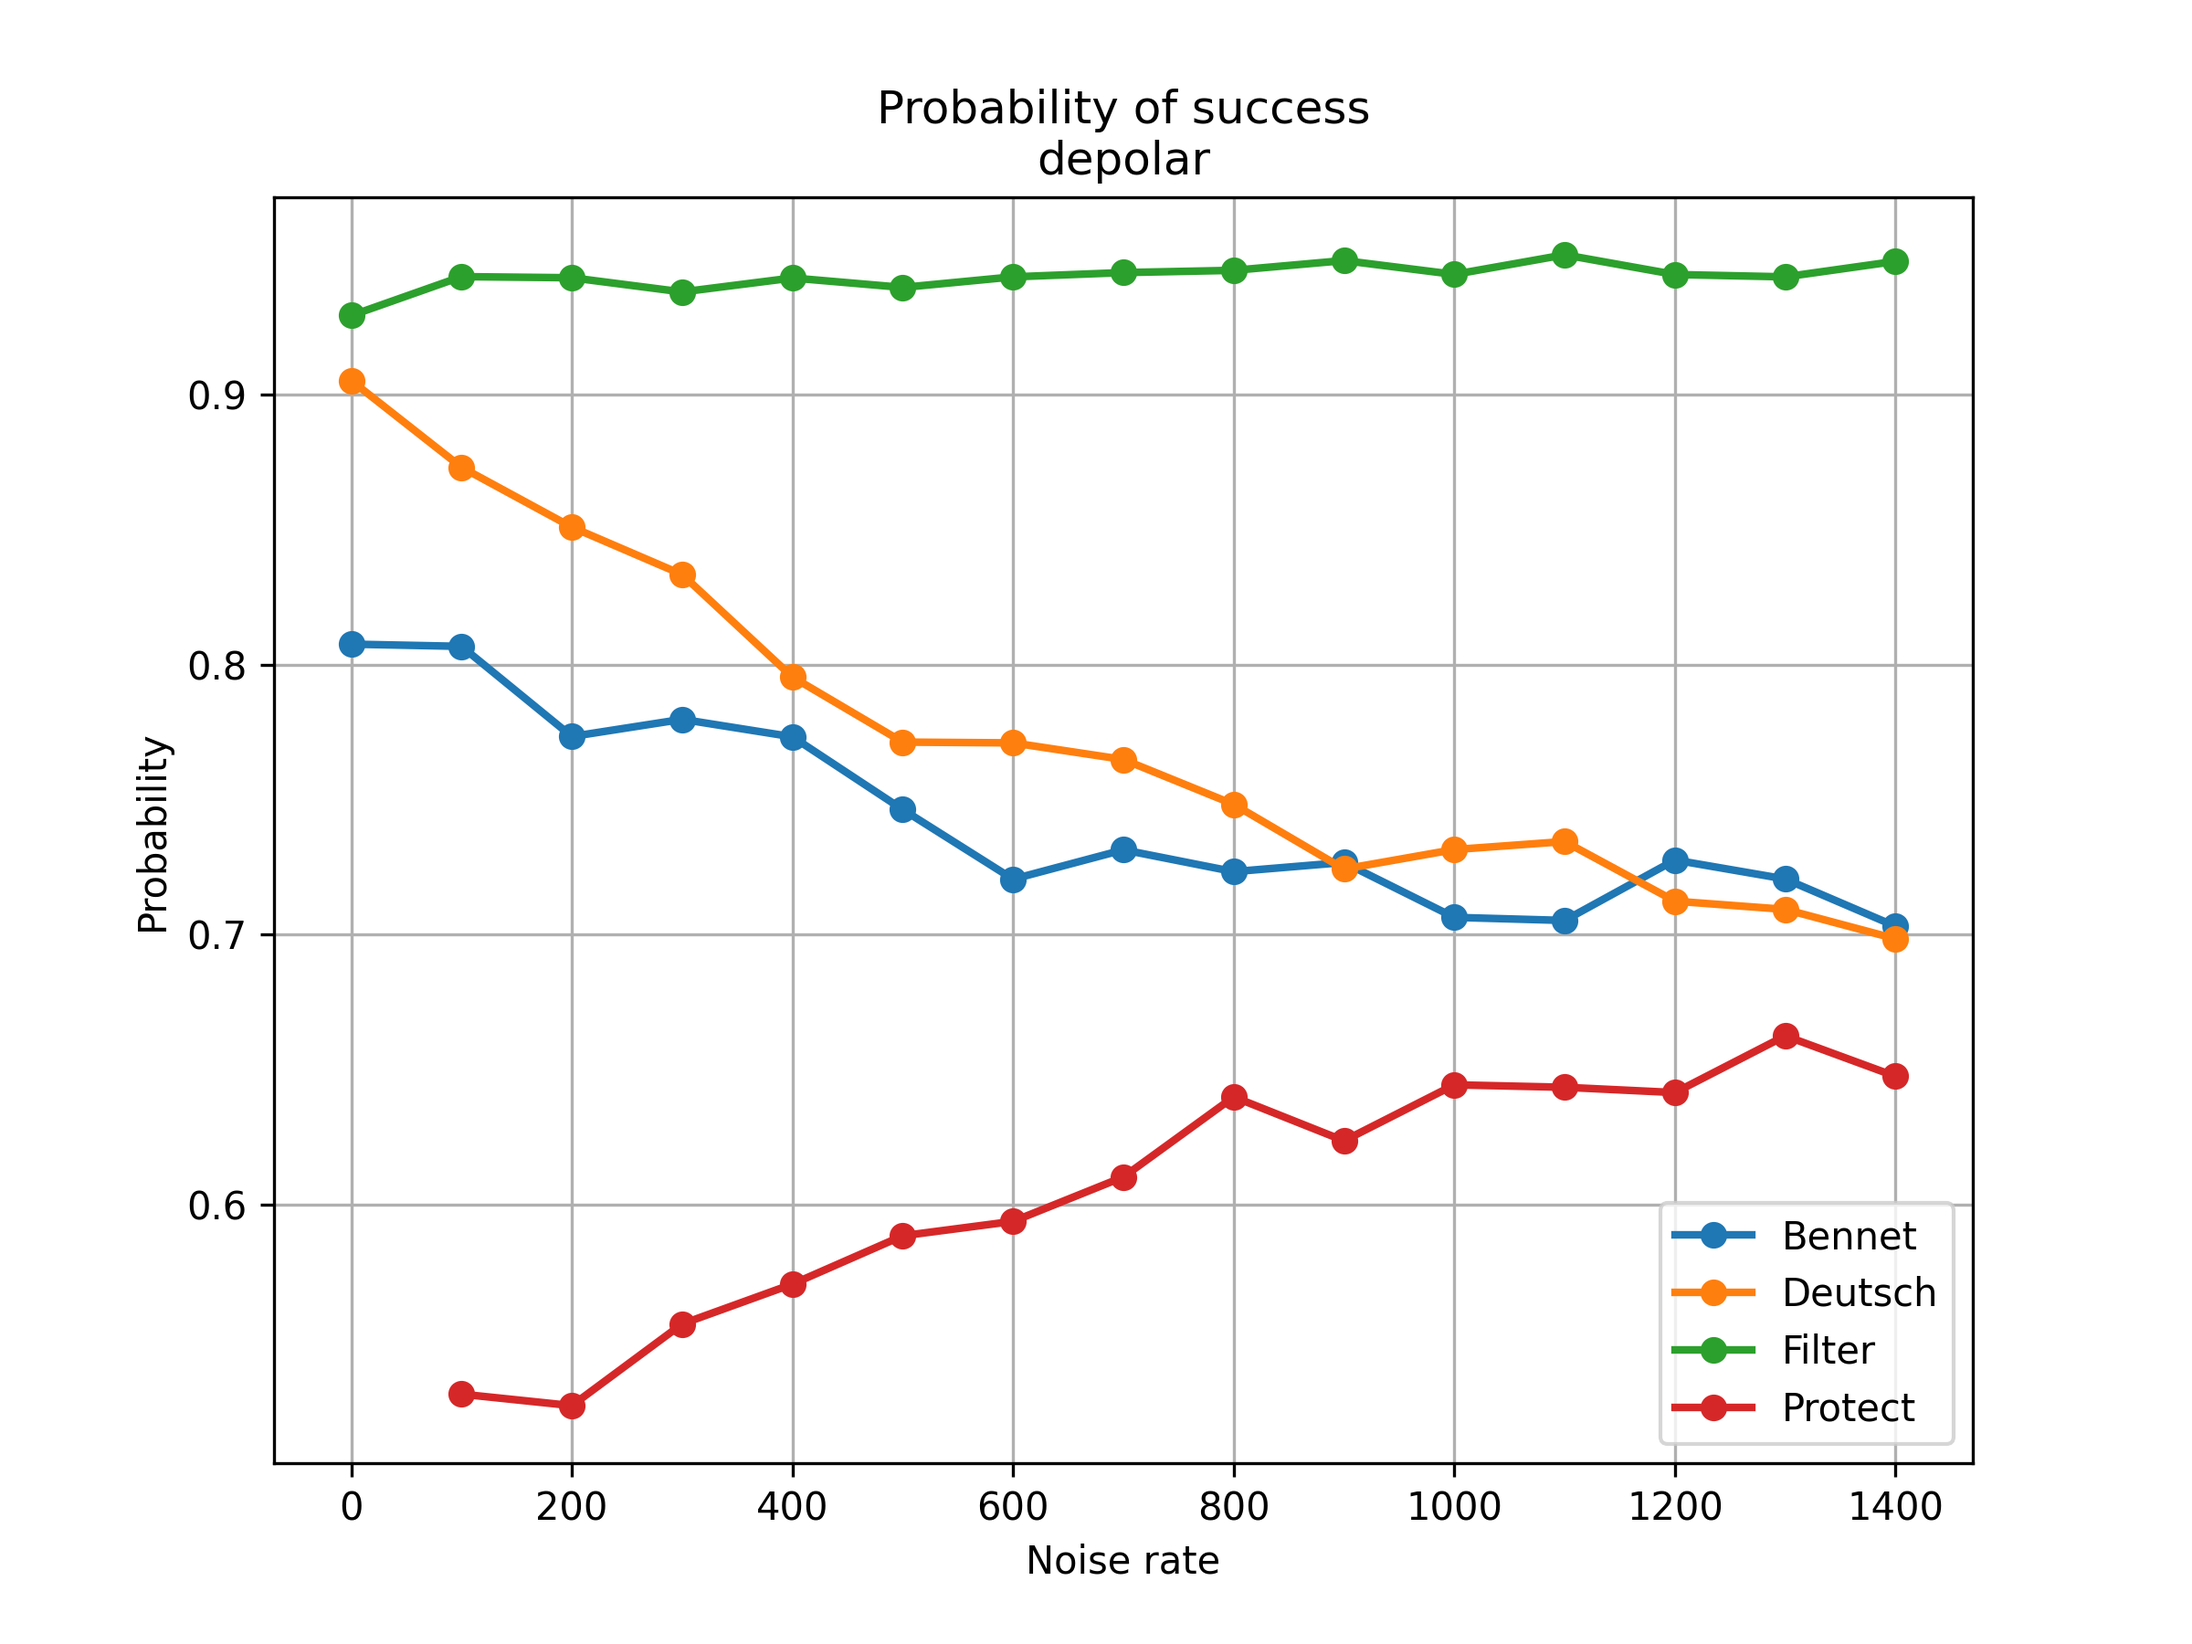
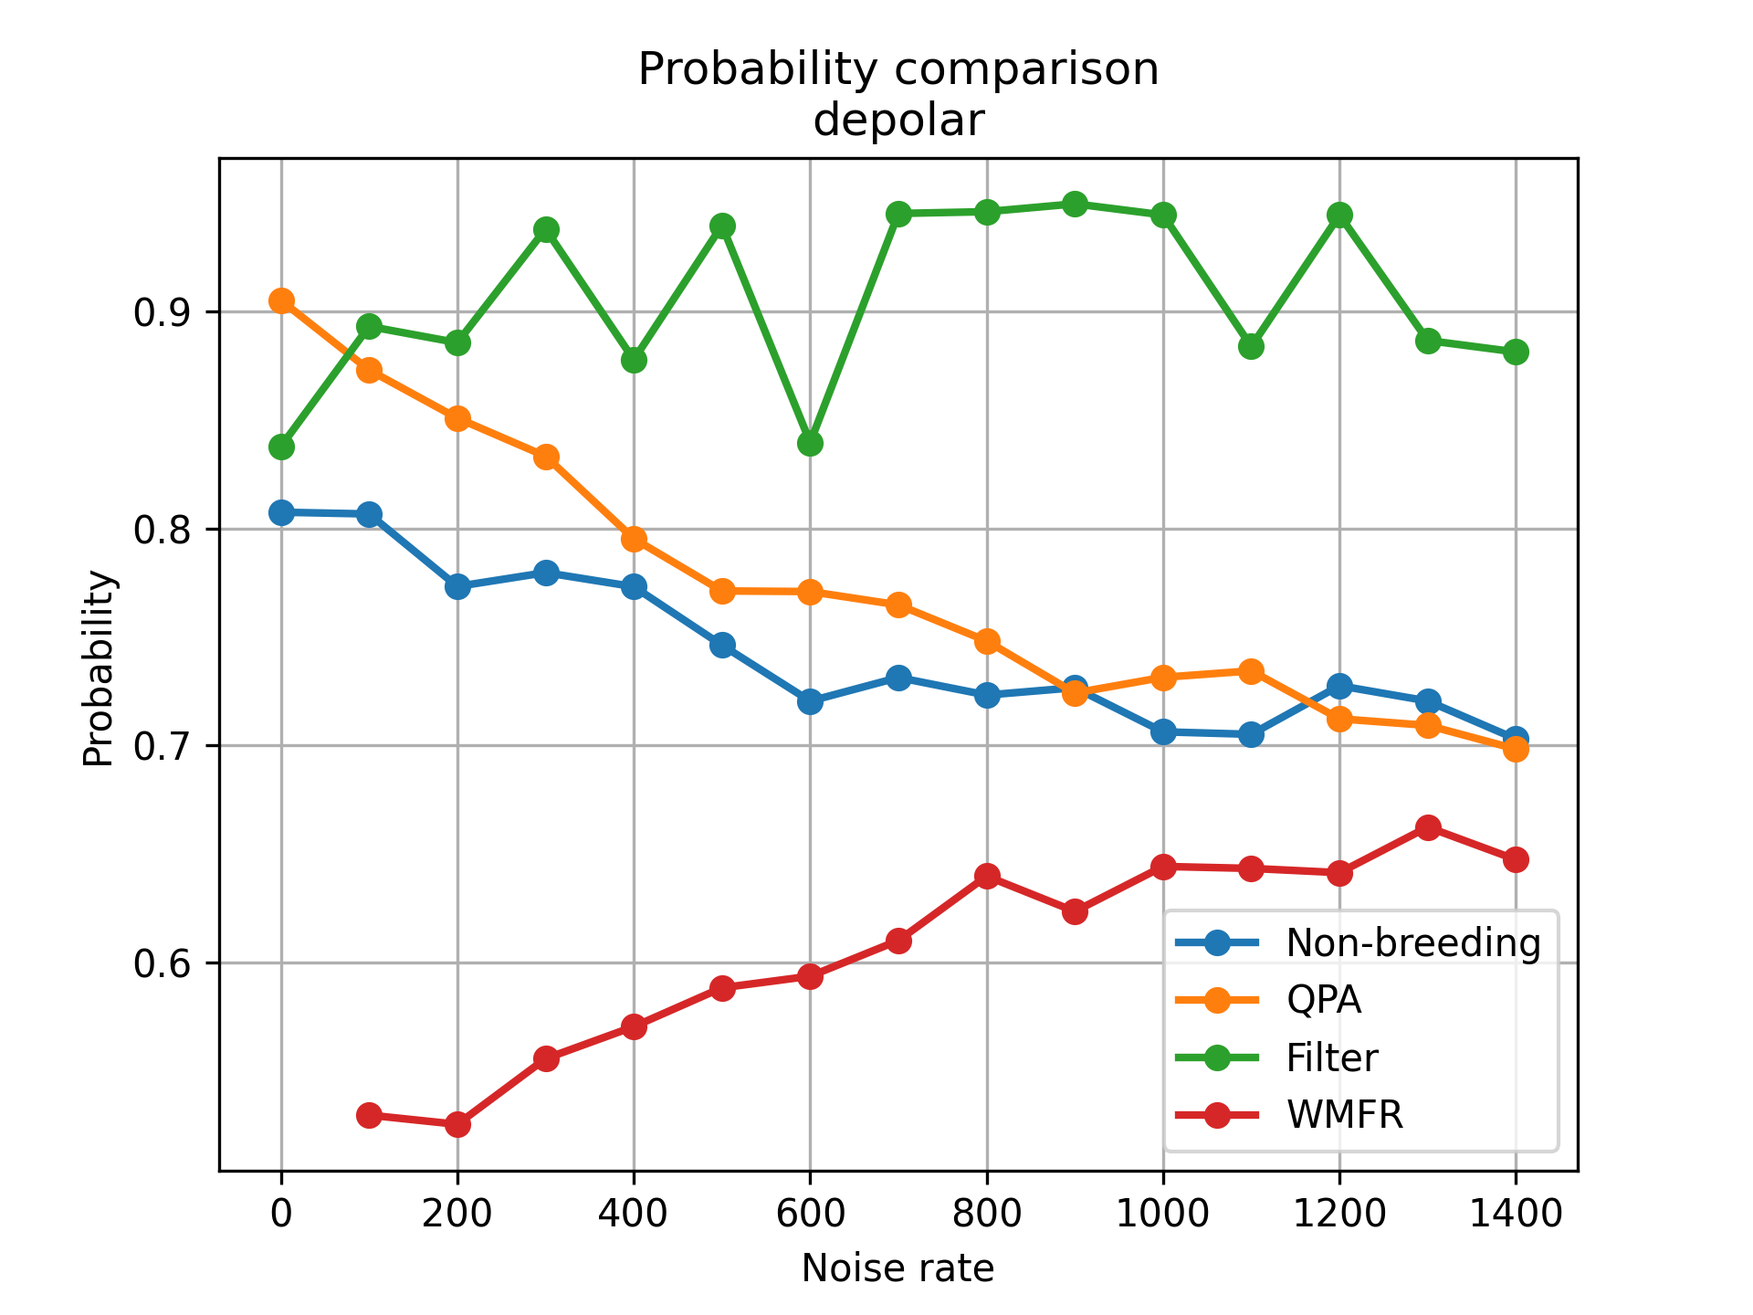
7_30

diff --git a/sim/graph_summary.py b/sim/graph_summary.py
@@ -13,11 +13,11 @@ BASE_DIR = Path("./plots_test")
 
 # プロトコル
 PROTOCOLS = {
-    "bennet": "fidelity summary_1.csv",
-    "deutsch": "fidelity summary_1.csv",
-    "filter": "fidelity summary_1.csv",
+    "bennet": "Bennet result_1.csv",
+    "deutsch": "Deutsch result_1.csv",
+    "filter": "Filter result_1.csv",
     "protect": "Protect_summary.csv",
-    "standard": "Teleportation summary_1.csv"
+    "standard": "Teleportation result_1.csv"
 }
 
 LABEL = {
@@ -35,27 +35,93 @@ NOISES = [
     "phase"
 ]
 
+# 評価指標
+PARAMETER = {
+    "fidelity": "Fidelity",
+    "pairs": "Pairs",
+    "probability": "Probability",
+    "time": "Time [ns]"
+}
+
 SAVE_DIR = BASE_DIR / "comparison"
 
 # ==================================================
 # 関数
 # ==================================================
 
-def calc_statistics(df, noise):
+def calc_statistics(df, noise, protocol):
     """node_distanceごとの平均と標準誤差を計算"""
 
     if noise == "depolar":
-        return (
-            df.groupby(["depolar_rate", "epsilon"])["fidelity"]
-            .mean()
-            .reset_index()
-        )
+        if protocol == "filter":
+            summary = (
+                df.groupby(["depolar_rate", "epsilon"])
+                .agg(
+                    fidelity=("fidelity", "mean"),
+                    pairs=("pairs", "mean"),
+                    probability=("probability", "mean"),
+                    time=("time", "mean")
+                )
+                .reset_index()
+            )
+            best_rows = summary.loc[summary.groupby("depolar_rate")["fidelity"].idxmax()]
+            best_rows = best_rows.sort_values("depolar_rate")
+            return best_rows
+        elif protocol == "standard":
+            return (
+                df.groupby("depolar_rate")
+                .agg(
+                    fidelity=("fidelity", "mean"),
+                    time=("time", "mean")
+                )
+                .reset_index()
+            )
+        else: 
+            return (
+                df.groupby("depolar_rate")
+                .agg(
+                    fidelity=("fidelity", "mean"),
+                    pairs=("pairs", "mean"),
+                    probability=("probability", "mean"),
+                    time=("time", "mean")
+                )
+                .reset_index()
+            )
     else:
-        return (
-            df.groupby(["damp_rate", "epsilon"])["fidelity"]
-            .mean()
-            .reset_index()
-        )
+        if protocol == "filter":
+            summary = (
+                df.groupby(["damp_rate", "epsilon"])
+                .agg(
+                    fidelity=("fidelity", "mean"),
+                    pairs=("pairs", "mean"),
+                    probability=("probability", "mean"),
+                    time=("time", "mean")
+                )
+                .reset_index()
+            )
+            best_rows = summary.loc[summary.groupby("damp_rate")["fidelity"].idxmax()]
+            best_rows = best_rows.sort_values("damp_rate")
+            return best_rows
+        elif protocol == "standard":
+            return (
+                df.groupby("damp_rate")
+                .agg(
+                    fidelity=("fidelity", "mean"),
+                    time=("time", "mean")
+                )
+                .reset_index()
+            )
+        else: 
+            return (
+                df.groupby("damp_rate")
+                .agg(
+                    fidelity=("fidelity", "mean"),
+                    pairs=("pairs", "mean"),
+                    probability=("probability", "mean"),
+                    time=("time", "mean")
+                )
+                .reset_index()
+            )
 
 
 def load_csv(protocol, filename, noise):
@@ -80,39 +146,17 @@ for noise in NOISES:
 
     plt.figure(figsize=(8, 6))
 
-    for protocol, filename in PROTOCOLS.items():
-        df = load_csv(protocol, filename, noise)
+    for column, ylabel in PARAMETER.items():
+        for protocol, filename in PROTOCOLS.items():
+            if protocol == "standard" and column in ("pairs", "probability"):
+                continue
+            df = load_csv(protocol, filename, noise)
+            data = calc_statistics(df, noise, protocol)
 
-        if protocol == "filter":
-            data = calc_statistics(df, noise)
-            if noise == "depolar":
-                best_rows = data.loc[data.groupby("depolar_rate")["fidelity"].idxmax()]
-                best_rows = best_rows.sort_values("depolar_rate")
-                plt.errorbar(
-                    best_rows["depolar_rate"],
-                    best_rows["fidelity"],
-                    marker="o",
-                    capsize=3,
-                    linewidth=2,
-                    label=LABEL[protocol]
-                )
-            else:
-                best_rows = data.loc[data.groupby("damp_rate")["fidelity"].idxmax()]
-                best_rows = best_rows.sort_values("damp_rate")
-                plt.errorbar(
-                    best_rows["damp_rate"],
-                    best_rows["fidelity"],
-                    marker="o",
-                    capsize=3,
-                    linewidth=2,
-                    label=LABEL[protocol]
-                )
-            
-        else:
             if noise == "depolar":
                 plt.errorbar(
-                    df["depolar_rate"],
-                    df["fidelity"],
+                    data["depolar_rate"],
+                    data[column],
                     marker="o",
                     capsize=3,
                     linewidth=2,
@@ -120,25 +164,25 @@ for noise in NOISES:
                 )
             else:
                 plt.errorbar(
-                    df["damp_rate"],
-                    df["fidelity"],
+                    data["damp_rate"],
+                    data[column],
                     marker="o",
                     capsize=3,
                     linewidth=2,
                     label=LABEL[protocol]
                 )
 
-    plt.xlabel("Noise rate")
-    plt.ylabel("Fidelity")
-    plt.title(f"Fidelity of the teleported quantum state\n{noise}")
-    plt.grid(True)
-    plt.legend()
+        plt.xlabel("Noise rate")
+        plt.ylabel(ylabel)
+        plt.title(f"{ylabel} comparison\n{noise}")
+        plt.grid(True)
+        plt.legend()
 
-    save_path = SAVE_DIR / f"noise/{noise}/{noise}_fidelity.png"
+        save_path = SAVE_DIR / f"noise/{noise}/{noise}_{column}.png"
 
-    plt.savefig(save_path, dpi=300)
-    plt.close()
+        plt.savefig(save_path, dpi=300)
+        plt.close()
 
-    print(f"Saved : {save_path}")
+        print(f"Saved : {save_path}")
 
 print("Finished.")

diff --git a/sim/graph_node_summary.py b/sim/graph_node_summary.py
@@ -13,11 +13,11 @@ BASE_DIR = Path("./plots_test")
 
 # プロトコル
 PROTOCOLS = {
-    "bennet": "fidelity summary_1.csv",
-    "deutsch": "fidelity summary_1.csv",
-    "filter": "fidelity summary_1.csv",
+    "bennet": "Bennet result_1.csv",
+    "deutsch": "Deutsch result_1.csv",
+    "filter": "Filter result_1.csv",
     "protect": "Protect_summary.csv",
-    "standard": "Teleportation summary_1.csv"
+    "standard": "Teleportation result_1.csv"
 }
 
 LABEL = {
@@ -42,20 +42,57 @@ SUB_DIR = {
     "phase": None
 }
 
+# 評価指標
+PARAMETER = {
+    "fidelity": "Fidelity",
+    "pairs": "Pairs",
+    "probability": "Probability",
+    "time": "Time [ns]"
+}
+
 SAVE_DIR = BASE_DIR / "comparison"
 
 # ==================================================
 # 関数
 # ==================================================
 
-def calc_statistics(df, noise):
+def calc_statistics(df, protocol):
     """node_distanceごとの平均と標準誤差を計算"""
 
-    return (
-        df.groupby("node_distance")["fidelity"]
-        .mean()
-        .reset_index()
-    )
+    if protocol == "filter":
+        summary = (
+            df.groupby(["node_distance", "epsilon"])
+            .agg(
+                fidelity=("fidelity", "mean"),
+                pairs=("pairs", "mean"),
+                probability=("probability", "mean"),
+                time=("time", "mean")
+            )
+            .reset_index()
+        )
+        best_rows = summary.loc[summary.groupby("node_distance")["fidelity"].idxmax()]
+        best_rows = best_rows.sort_values("node_distance")
+        return best_rows
+    elif protocol == "standard":
+        return (
+            df.groupby("node_distance")
+            .agg(
+                fidelity=("fidelity", "mean"),
+                time=("time", "mean")
+            )
+            .reset_index()
+        )
+    else: 
+        return (
+            df.groupby("node_distance")
+            .agg(
+                fidelity=("fidelity", "mean"),
+                pairs=("pairs", "mean"),
+                probability=("probability", "mean"),
+                time=("time", "mean")
+            )
+            .reset_index()
+        )
 
 
 def load_csv(protocol, filename, noise):
@@ -90,43 +127,33 @@ for noise in NOISES:
 
     plt.figure(figsize=(8, 6))
 
-    for protocol, filename in PROTOCOLS.items():
-        df = load_csv(protocol, filename, noise)
+    for column, ylabel in PARAMETER.items():
+        for protocol, filename in PROTOCOLS.items():
+            if protocol == "standard" and column in ("pairs", "probability"):
+                continue 
+            df = load_csv(protocol, filename, noise)
+            data = calc_statistics(df, protocol)
 
-        if protocol == "filter":
-            data = calc_statistics(df, noise)
-            best_rows = data.loc[data.groupby("node_distance")["fidelity"].idxmax()]
-            best_rows = best_rows.sort_values("node_distance")
             plt.errorbar(
-                best_rows["node_distance"],
-                best_rows["fidelity"],
-                marker="o",
-                capsize=3,
-                linewidth=2,
-                label=LABEL[protocol]
-            )
-            
-        else:
-            plt.errorbar(
-                df["node_distance"],
-                df["fidelity"],
+                data["node_distance"],
+                data[column],
                 marker="o",
                 capsize=3,
                 linewidth=2,
                 label=LABEL[protocol]
             )
 
-    plt.xlabel("Node distance")
-    plt.ylabel("Fidelity")
-    plt.title(f"Fidelity of the teleported quantum state\n{noise}")
-    plt.grid(True)
-    plt.legend()
+        plt.xlabel("Node distance")
+        plt.ylabel(ylabel)
+        plt.title(f"{ylabel} comparison\n{noise}")
+        plt.grid(True)
+        plt.legend()
 
-    save_path = SAVE_DIR / f"node_distance/{noise}/{noise}_fidelity.png"
+        save_path = SAVE_DIR / f"node_distance/{noise}/{noise}_{column}.png"
 
-    plt.savefig(save_path, dpi=300)
-    plt.close()
+        plt.savefig(save_path, dpi=300)
+        plt.close()
 
-    print(f"Saved : {save_path}")
+        print(f"Saved : {save_path}")
 
 print("Finished.")
